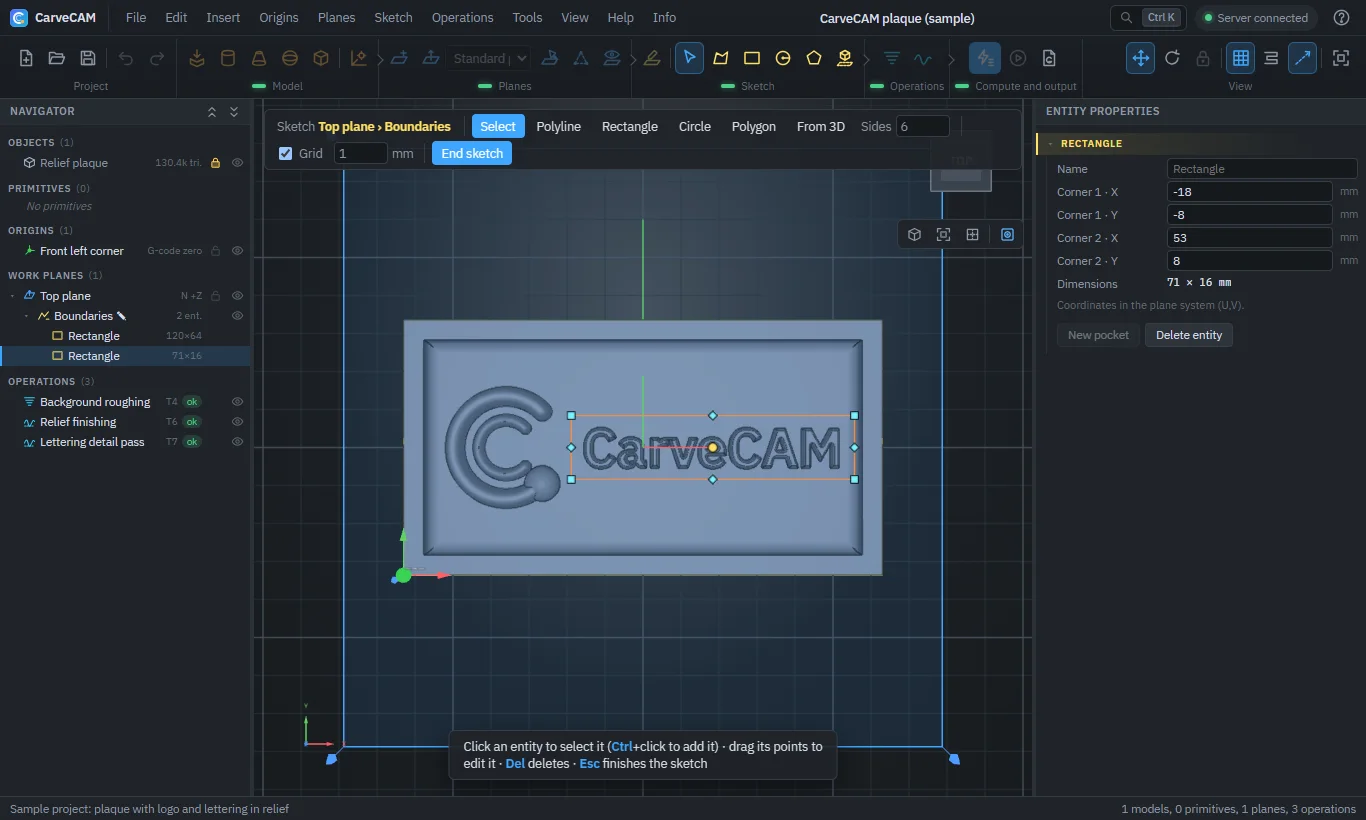
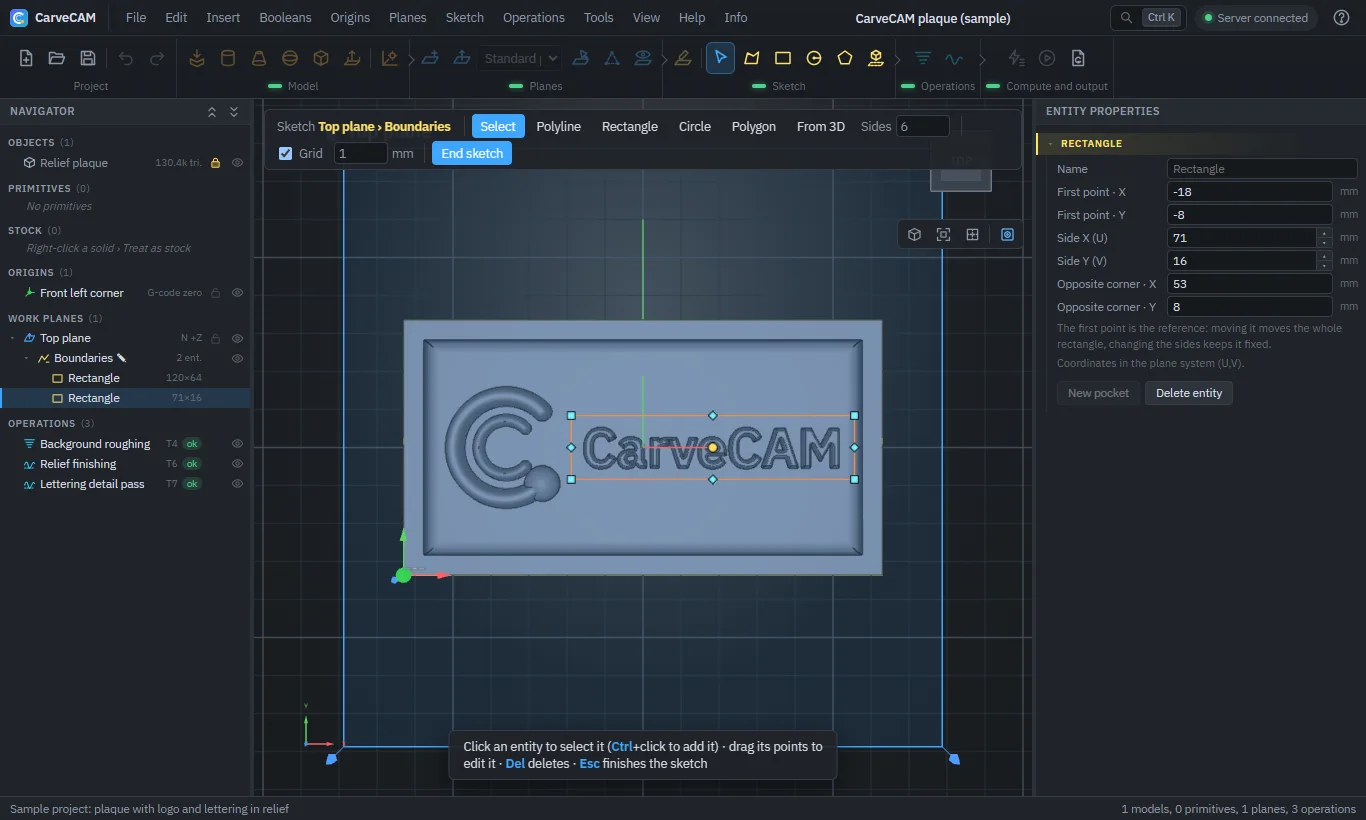
Guida, README, traduzioni e schermate per grezzo, solidi e nuove funzioni

diff --git a/src/CarveCAM.Server/wwwroot/js/guide-pages.js b/src/CarveCAM.Server/wwwroot/js/guide-pages.js
@@ -119,6 +119,12 @@ export function guidePages() {
           L('[[origin]] <b>Sposta origine</b>: trasla tutto il progetto perché l\'origine sia, per ogni asse, il minimo, il medio o il massimo dei solidi, più un offset.', '[[origin]] <b>Move origin</b>: shifts the whole project so that the origin is, for each axis, the minimum, middle or maximum of the solids, plus an offset.'),
           L('[[lock]] <b>Blocca</b> ({{Ctrl+L}}): un elemento bloccato non si sposta per errore.', '[[lock]] <b>Lock</b> ({{Ctrl+L}}): a locked item cannot be moved by mistake.'),
         ]),
+        h3(L('Solidi dagli sketch e operazioni booleane', 'Solids from sketches and boolean operations')),
+        ul([
+          L('[[extrude]] <b>Estrudi profilo</b>: seleziona uno sketch (o alcune sue entità) e scegli altezza e direzione: i contorni diventano un solido, estruso perpendicolarmente al piano (un contorno dentro un altro è un foro). Il solido è un artefatto: altezza e direzione si cambiano nelle proprietà.', '[[extrude]] <b>Extrude profile</b>: select a sketch (or some of its entities) and choose height and direction: the outlines become a solid, extruded perpendicular to the plane (an outline inside another is a hole). The solid is a primitive: height and direction are changed in its properties.'),
+          L('[[boolUnion]] <b>Booleane</b> (menu omonimo): con due o più solidi selezionati ({{Ctrl}}+clic) <b>Unione</b>, <b>Sottrazione</b> (il primo selezionato meno gli altri) o <b>Intersezione</b>. Il risultato è un nuovo oggetto; i solidi di partenza si tolgono o restano nascosti.', '[[boolUnion]] <b>Booleans</b> (menu of the same name): with two or more solids selected ({{Ctrl}}+click) <b>Union</b>, <b>Subtraction</b> (the first selected minus the others) or <b>Intersection</b>. The result is a new object; the original solids are removed or kept hidden.'),
+          L('Il <b>tasto destro</b> su un elemento (nella vista o nel navigatore) apre il suo menu.', 'A <b>right-click</b> on an item (in the view or in the navigator) opens its menu.'),
+        ]),
         act([show('[data-action="file.import"]', L('Mostrami Importa', 'Show me Import')), show('[data-group="model"]', L('Mostrami il gruppo Modello', 'Show me the Model group'))]),
       ],
     },
@@ -167,6 +173,7 @@ export function guidePages() {
         ul([
           L('<b>Aggancio</b> alla griglia (passo nella barra dello sketch) e ai punti delle entità esistenti. Finito il disegno di un\'entità si torna allo strumento Seleziona, con l\'entità selezionata.', '<b>Snapping</b> to the grid (step in the sketch bar) and to the points of existing entities. When an entity is finished the Select tool comes back, with the entity selected.'),
           L('Con <b>Seleziona</b> l\'entità mostra vertici, punti medi, centro e quadranti: trascinandoli si modifica (trascinare il punto medio di un lato aggiunge un vertice). {{Ctrl+Z}} annulla.', 'With <b>Select</b> the entity shows vertices, midpoints, centre and quadrants: drag them to edit it (dragging a side midpoint adds a vertex). {{Ctrl+Z}} undoes.'),
+          L('Nelle proprietà il <b>rettangolo</b> ha il primo punto cliccato come riferimento e la lunghezza dei due lati: cambiando i lati il primo punto resta fermo. Il <b>poligono</b> ha anche la lunghezza del lato.', 'In the properties the <b>rectangle</b> has the first clicked point as reference and the length of its two sides: changing the sides keeps the first point fixed. The <b>polygon</b> also has the side length.'),
         ]),
         art('island'),
         p(L('Un contorno dentro un altro diventa un\'<b>isola</b> che non viene lavorata. Per lavorare solo alcune entità selezionale con {{Ctrl}}+clic prima di creare la lavorazione: il progetto di esempio usa così il rettangolo della scritta.',
@@ -198,12 +205,38 @@ export function guidePages() {
           L('<b>Passo laterale</b>: distanza tra passate affiancate, in % del diametro (con limiti in mm). <b>Passo verticale</b>: altezza di ogni terrazza, in % dell\'altezza del tagliente.', '<b>Stepover</b>: distance between side-by-side passes, as a % of the diameter (with limits in mm). <b>Stepdown</b>: height of each terrace, as a % of the flute length.'),
           L('<b>Profondità massima</b> dal piano; <b>sovrametallo</b>: materiale lasciato sul modello per la finitura.', '<b>Maximum depth</b> from the plane; <b>stock allowance</b>: material left on the model for finishing.'),
           L('<b>Quota di sicurezza</b> per i movimenti rapidi e <b>tolleranza</b> del calcolo.', '<b>Safe height</b> for rapid moves and computing <b>tolerance</b>.'),
+          L('Se la fresa scenderebbe sotto il <b>piano della griglia</b> (Z 0, dove appoggia il pezzo) il calcolo chiede conferma: <b>Scendi sotto il piano</b> o <b>Limita al piano</b>. La scelta resta nella proprietà <i>Sotto la griglia</i>.', 'If the cutter would go below the <b>grid plane</b> (Z 0, where the part rests) the computation asks for confirmation: <b>Go below the plane</b> or <b>Limit to the plane</b>. The choice is kept in the <i>Below the grid</i> property.'),
         ]),
         art('entries'),
         art('obstacles'),
         p(L('Ogni lavorazione considera come <b>ostacoli</b> gli oggetti e gli artefatti spuntati nel gruppo <i>Ostacoli</i> delle proprietà (passando sul nome l\'ostacolo si illumina nella vista). Gli elementi aggiunti dopo non sono ostacoli finché non li spunti.',
           'Each operation treats as <b>obstacles</b> the objects and primitives checked in the <i>Obstacles</i> group of the properties (hovering a name highlights it in the view). Items added later are not obstacles until you check them.')),
+        tip(L('Con un <b>grezzo</b> le lavorazioni passano solo dove c\'è materiale e ognuna parte da quello lasciato dalla precedente: vedi il capitolo successivo.', 'With a <b>stock</b> the operations pass only where there is material and each starts from what the previous one left: see the next chapter.')),
         tip(L('<b>Salva come setup…</b> (nelle proprietà) conserva i parametri per riusarli. Per cambiare l\'ordine delle lavorazioni trascinale nel navigatore o usa [[reorder]] <b>Riordina lavorazioni</b>.', '<b>Save as setup…</b> (in the properties) keeps the parameters for reuse. To change the order of the operations drag them in the navigator or use [[reorder]] <b>Reorder operations</b>.')),
+      ],
+    },
+    {
+      id: 'stock', icon: 'box', title: L('Il grezzo', 'The stock'), nav: L('Grezzo', 'Stock'),
+      blocks: [
+        p(L('Il <b>grezzo</b> è il blocco di materiale da cui si ricava il pezzo. Senza grezzo le lavorazioni partono dal piano e lavorano tutta l\'area del contorno; con il grezzo sanno dov\'è il materiale.', 'The <b>stock</b> is the block of material the part is cut from. Without stock the operations start from the plane and machine the whole outline; with stock they know where the material is.')),
+        steps([
+          { icon: 'box', html: L('Crea il solido del grezzo: un <b>parallelepipedo</b>, un modello importato o un <b>profilo estruso</b> [[extrude]] dal contorno del pezzo.', 'Create the stock solid: a <b>box</b>, an imported model or an <b>extruded profile</b> [[extrude]] from the outline of the part.') },
+          { icon: 'select', html: L('<b>Tasto destro</b> sul solido › <b>Considera come grezzo</b> (o la casella <i>Grezzo</i> nelle proprietà): passa nell\'elenco <b>Grezzo</b> del navigatore e diventa semitrasparente.', '<b>Right-click</b> the solid › <b>Treat as stock</b> (or the <i>Stock</i> box in the properties): it moves to the <b>Stock</b> list of the navigator and becomes semi-transparent.') },
+          { icon: 'computeAll', html: L('<b>Ricalcola tutto</b>: le lavorazioni si calcolano nell\'ordine del navigatore, ognuna dal grezzo lasciato dalla precedente.', '<b>Recompute all</b>: operations are computed in the navigator order, each from the stock left by the previous one.') },
+        ]),
+        shot('stock', [
+          S(1, L('L\'elenco <b>Grezzo</b> del navigatore.', 'The <b>Stock</b> list of the navigator.')),
+          S(2, L('Il grezzo che si erode durante la simulazione: dove la fresa è passata il materiale è sceso.', 'The stock being eroded during the simulation: where the cutter has passed the material has gone down.')),
+          S(3, L('La simulazione di tutte le lavorazioni, ognuna sul grezzo lasciato dalla precedente.', 'The simulation of all the operations, each on the stock left by the previous one.')),
+        ], L('Il progetto di esempio con un blocco grezzo', 'The sample project with a stock block')),
+        ul([
+          L('Il grezzo è il <b>materiale da togliere</b>, non un ostacolo: gli ostacoli restano i modelli e gli artefatti spuntati nella lavorazione.', 'The stock is the <b>material to remove</b>, not an obstacle: obstacles are still the models and primitives checked in the operation.'),
+          L('La svuotatura parte dalla <b>sommità del grezzo</b> (anche sopra il piano, così la fresa non lo urta) e passa <b>solo dove c\'è materiale</b>: niente passate in aria. La profondità massima resta misurata dal piano.', 'Pocketing starts from the <b>top of the stock</b> (also above the plane, so the cutter does not hit it) and passes <b>only where there is material</b>: no air cuts. The maximum depth is still measured from the plane.'),
+          L('La finitura salta i tratti dove la fresa non tocca materiale; le lavorazioni successive lavorano solo il <b>materiale rimasto</b> (ripresa).', 'Finishing skips the stretches where the cutter touches no material; later operations machine only the <b>remaining material</b> (rest machining).'),
+          L('Funziona anche con piani diversi (lavorazioni 3+2): il grezzo lasciato da una lavorazione si ricampiona nel sistema del piano della successiva.', 'It also works with different planes (3+2 machining): the stock left by one operation is resampled in the plane system of the next.'),
+          L('In <b>simulazione</b> il grezzo si erode mentre la fresa passa.', 'In the <b>simulation</b> the stock is eroded as the cutter passes.'),
+        ]),
+        tip(L('Con il grezzo una lavorazione dipende dalle precedenti: cambiando la prima, le successive tornano <b>da ricalcolare</b>; {{F9}} su una lavorazione calcola prima quelle precedenti non aggiornate.', 'With stock an operation depends on the previous ones: changing the first one makes the following ones <b>to recompute</b>; {{F9}} on an operation first computes the previous ones that are not up to date.')),
       ],
     },
     {
@@ -252,6 +285,7 @@ export function guidePages() {
           'The <b>work zero</b> is the point of the part where program coordinates start: on the machine you zero on the same point. Usually a corner or the centre of the top face of the stock.')),
         ul([
           L('[[refPoint]] <b>Origini › Nuova origine da un punto</b> (clic nella vista, con aggancio ai vertici) o <b>da coordinate</b> (con i punti notevoli dell\'ingombro). I punti si chiamano <i>Origine 1, 2…</i> e si rinominano nelle proprietà.', '[[refPoint]] <b>Origins › New origin from a point</b> (click in the view, snapping to vertices) or <b>from coordinates</b> (with the key points of the bounds). The points are called <i>Origin 1, 2…</i> and can be renamed in the properties.'),
+          L('Nelle proprietà di un\'origine <b>Sposta il punto…</b> la porta su un altro punto con un clic nella vista (con aggancio ai vertici).', 'In the properties of an origin <b>Move the point…</b> moves it to another point with a click in the view (snapping to vertices).'),
           L('[[gcode]] <b>Esporta G-code</b>: scegli il controllo, lo zero pezzo e le lavorazioni; il programma si può copiare o scaricare.', '[[gcode]] <b>Export G-code</b>: choose the controller, the work zero and the operations; the program can be copied or downloaded.'),
         ]),
         shot('export', [

diff --git a/src/CarveCAM.Server/wwwroot/js/i18n-en.js b/src/CarveCAM.Server/wwwroot/js/i18n-en.js
@@ -1214,7 +1214,6 @@ export const EN = {
   "Modifiche non salvate": "Unsaved changes",
   "Nessun progetto recente: i progetti aperti o salvati compariranno qui.": "No recent projects: the projects you open or save will appear here.",
   "Schermata iniziale di CarveCAM": "CarveCAM start screen",
-  "CAM per mini CNC: dal modello 3D al G-code": "CAM for mini CNCs: from 3D model to G-code",
   "Mostra all'avvio": "Show at startup",
   "Informazioni…": "About…",
   "Vai al progetto": "Go to the project",
@@ -1237,8 +1236,6 @@ export const EN = {
   "Finitura del rilievo": "Relief finishing",
   "Ripresa della scritta": "Lettering detail pass",
   "Spazio": "Space",
-  "Prova subito": "Try it now",
-  "Una targa con logo e scritta in rilievo: sgrossatura, finitura e ripresa con fresa conica, calcolate e pronte da simulare.": "A plaque with logo and lettering in relief: roughing, finishing and a detail pass with a tapered cutter, computed and ready to simulate.",
   "Apri l'esempio": "Open the sample",
   "Termina prima lo sketch": "Finish the sketch first",
   "Concludi o annulla (Esc) prima la creazione del piano": "Finish or cancel (Esc) the plane creation first",
@@ -1249,4 +1246,88 @@ export const EN = {
   "Clic sul primo angolo, poi sull'angolo opposto": "Click the first corner, then the opposite corner",
   "Clic sul centro, poi sul raggio": "Click the center, then the radius",
   "Clic sul centro, poi su un vertice": "Click the center, then a vertex",
+  // grezzo, profilo estruso, booleane, rettangolo e poligono, origini
+  "Seleziona prima uno sketch (o alcune sue entità) da estrudere": "Select a sketch (or some of its entities) to extrude first",
+  "Seleziona almeno due solidi (oggetti o artefatti) con Ctrl+clic": "Select at least two solids (objects or primitives) with Ctrl+click",
+  "Estrudi profilo…": "Extrude profile…",
+  "Estrudi profilo": "Extrude profile",
+  "Estrudi": "Extrude",
+  "Estrude in linea retta, perpendicolare al piano, i contorni dello sketch o delle entità selezionate: il solido diventa un artefatto": "Extrudes the outlines of the selected sketch or entities straight, perpendicular to the plane: the solid becomes a primitive",
+  "Booleane": "Booleans",
+  "Operazioni tra i solidi selezionati": "Operations between the selected solids",
+  "Unione…": "Union…",
+  "Sottrazione…": "Subtraction…",
+  "Intersezione…": "Intersection…",
+  "Un solo solido con il volume di tutti i solidi selezionati": "A single solid with the volume of all the selected solids",
+  "Il primo solido selezionato meno gli altri": "The first selected solid minus the others",
+  "Solo il volume comune a tutti i solidi selezionati": "Only the volume common to all the selected solids",
+  "Grezzo: {names}. Le lavorazioni lo usano come materiale da togliere, aggiornandolo dall'una alla successiva": "Stock: {names}. Operations use it as the material to remove, updating it from one to the next",
+  "{names}: non più grezzo": "{names}: no longer stock",
+  "Clic sul nuovo punto di \"{name}\" (si aggancia ai vertici di solidi, sketch e piani vicini) · <b>Esc</b> annulla": "Click the new point of \"{name}\" (snaps to nearby vertices of solids, sketches and planes) · <b>Esc</b> cancels",
+  "Estrusione": "Extrusion",
+  "{n} contorni di \"{sketch}\" ({plane}), estrusi perpendicolarmente al piano.": "{n} outlines of \"{sketch}\" ({plane}), extruded perpendicular to the plane.",
+  "Direzione": "Direction",
+  "Grezzo": "Stock",
+  "Considera il solido come grezzo": "Treat the solid as stock",
+  "Un contorno dentro un altro diventa un foro. Il solido è un artefatto: altezza e direzione si cambiano poi nelle sue proprietà.": "An outline inside another becomes a hole. The solid is a primitive: height and direction can be changed later in its properties.",
+  "Altezza non valida": "Invalid height",
+  "Profilo estruso: {n} contorni, altezza {h} mm": "Extruded profile: {n} outlines, height {h} mm",
+  "\"{first}\" meno {others}": "\"{first}\" minus {others}",
+  "Conserva i solidi di partenza (nascosti)": "Keep the original solids (hidden)",
+  "Il risultato è un nuovo oggetto. I solidi devono essere chiusi; i modelli molto grandi richiedono qualche secondo.": "The result is a new object. The solids must be closed; very large models take a few seconds.",
+  "Operazione booleana: {op}…": "Boolean operation: {op}…",
+  "\"{name}\" non è ancora pronto nella vista": "\"{name}\" is not ready in the view yet",
+  "Il risultato è vuoto: i solidi non hanno volume in comune": "The result is empty: the solids have no volume in common",
+  "Invio al server del risultato…": "Sending the result to the server…",
+  "Operazione booleana non riuscita: {msg}": "Boolean operation failed: {msg}",
+  "operazione booleana": "boolean operation",
+  "{op}: {tri} triangoli": "{op}: {tri} triangles",
+  "\"{name}\" spostato in {p}": "\"{name}\" moved to {p}",
+  "\"{name}\": {pts} punti, {len} m di lavoro, {ms} ms": "\"{name}\": {pts} points, {len} m of cutting, {ms} ms",
+  "Non considerare come grezzo": "Do not treat as stock",
+  "Considera come grezzo": "Treat as stock",
+  "Grezzo: è il materiale da lavorare, non un ostacolo. Le lavorazioni partono dalla sua sommità e passano solo dove c'è materiale; dopo ogni lavorazione il grezzo si aggiorna per quella successiva.": "Stock: the material to machine, not an obstacle. Operations start from its top and pass only where there is material; after each operation the stock is updated for the next one.",
+  "{n} contorni": "{n} outlines",
+  "materiale da lavorare": "material to machine",
+  "Profilo": "Profile",
+  "Sposta il punto…": "Move the point…",
+  "Clic nella vista sul nuovo punto (si aggancia ai vertici)": "Click the new point in the view (snaps to vertices)",
+  "Primo punto · X": "First point · X",
+  "Primo punto · Y": "First point · Y",
+  "Lato X (U)": "Side X (U)",
+  "Lato Y (V)": "Side Y (V)",
+  "Angolo opposto · X": "Opposite corner · X",
+  "Angolo opposto · Y": "Opposite corner · Y",
+  "Il primo punto è il riferimento: spostandolo si sposta tutto il rettangolo, cambiando i lati resta fermo.": "The first point is the reference: moving it moves the whole rectangle, changing the sides keeps it fixed.",
+  "Lunghezza lato": "Side length",
+  "Tasto destro su un solido › Considera come grezzo": "Right-click a solid › Treat as stock",
+  "Profilo estruso": "Extruded profile",
+  "Profilo nel piano XY locale (quello dello sketch di partenza), estruso lungo Z locale (la normale del piano).": "Profile in the local XY plane (that of the source sketch), extruded along local Z (the plane normal).",
+  "Nel materiale (opposta alla normale)": "Into the material (opposite to the normal)",
+  "Verso l'utensile (lungo la normale)": "Towards the tool (along the normal)",
+  "Simmetrica": "Symmetric",
+  "Tasto destro (clic)": "Right button (click)",
+  "Menu dell'elemento sotto il cursore (vista e navigatore)": "Menu of the item under the cursor (view and navigator)",
+  // piano della griglia
+  "Sotto il piano della griglia": "Below the grid plane",
+  "La lavorazione \"{name}\" porta la fresa fino a {d} mm sotto il piano base della griglia (Z 0), dove di solito appoggia il pezzo.": "The operation \"{name}\" takes the cutter down to {d} mm below the base plane of the grid (Z 0), where the part usually rests.",
+  "Consentire di scendere sotto il piano?": "Allow going below the plane?",
+  "\"Limita al piano\" ricalcola la lavorazione fermando la fresa sul piano della griglia. La scelta resta nelle proprietà della lavorazione (Sotto la griglia).": "\"Limit to the plane\" recomputes the operation stopping the cutter on the grid plane. The choice is kept in the operation properties (Below the grid).",
+  "Scendi sotto il piano": "Go below the plane",
+  "Limita al piano": "Limit to the plane",
+  "Sotto la griglia": "Below the grid",
+  "Chiedi conferma": "Ask for confirmation",
+  "Consenti": "Allow",
+  "Cosa fare se la fresa scende sotto il piano base della griglia (Z 0), dove di solito appoggia il pezzo. Chiedi conferma: al calcolo si sceglie se consentirlo o limitare la lavorazione al piano. Limita al piano: la fresa non scende sotto (le terrazze si fermano sul piano, la finitura ci passa sopra).": "What to do if the cutter goes below the base plane of the grid (Z 0), where the part usually rests. Ask for confirmation: when computing you choose whether to allow it or to limit the operation to the plane. Limit to the plane: the cutter does not go below (terraces stop on the plane, finishing passes over it).",
+  // schermata iniziale
+  "CAM per mini CNC": "CAM for mini CNCs",
+  "Fresatura a 3 assi e 3+2 · GRBL e Fanuc/ISO": "3-axis and 3+2 milling · GRBL and Fanuc/ISO",
+  "Dal modello 3D": "From 3D model",
+  "al G-code.": "to G-code.",
+  "Svuotature a terrazze, finiture in proiezione, piani inclinati e grezzo che si consuma lavorazione dopo lavorazione: prepari, simuli ed esporti il programma per la tua fresatrice.": "Terrace pocketing, projected finishing, tilted planes and stock that is consumed operation after operation: prepare, simulate and export the program for your milling machine.",
+  "Targa con logo e scritta in rilievo: tre lavorazioni pronte da simulare.": "Plaque with logo and lettering in relief: three operations ready to simulate.",
+  "Simulazione": "Simulation",
+  "Svuotatura concentrica · fresa Ø{d} mm": "Concentric pocketing · Ø{d} mm cutter",
+  "passata {k}/{n}": "pass {k}/{n}",
+  "contorno": "contour",
 };

diff --git a/README.md b/README.md
@@ -82,11 +82,14 @@ samples/blocco-L.stp                        STEP di prova (blocco a L con gradin
 
 - **Schermata iniziale:** dopo il caricamento, al posto dell'area di lavoro vuota: nuovo progetto, apri, importa,
   progetto di esempio, il progetto da riprendere (con l'anteprima e le modifiche non salvate), i progetti recenti
-  con le miniature, la guida e il flusso di lavoro. Si riapre da *File › Schermata iniziale* o con un clic sul
-  logo; *Mostra all'avvio* (anche in *Opzioni › Avvio*) decide se compare all'avvio. Mentre è aperta la vista 3D
-  non viene disegnata.
-- **Barra del titolo:** menu a tendina con icone (File, Modifica, Inserisci, Origini, Piani, Sketch, Lavorazioni,
-  Strumenti, Vista, Aiuto, Info; navigabili con le frecce), nome del progetto modificabile (Invio o uscita dal
+  con le miniature, la guida e il flusso di lavoro, le cui fasi si illuminano in sequenza. Accanto, una vetrina
+  animata in prospettiva (`home-anim.js`, CSS 3D e SVG, senza librerie): una fresa scava la "C" del logo in una
+  lastra con passate concentriche e una passata di contorno, con la riga di G-code e l'avanzamento; un clic apre
+  il progetto di esempio. Si riapre da *File › Schermata iniziale* o con un clic sul logo; *Mostra all'avvio*
+  (anche in *Opzioni › Avvio*) decide se compare all'avvio. Mentre è aperta la vista 3D non viene disegnata; le
+  animazioni si fermano quando si chiude e, con *riduci movimento* del sistema, restano ferme.
+- **Barra del titolo:** menu a tendina con icone (File, Modifica, Inserisci, Booleane, Origini, Piani, Sketch,
+  Lavorazioni, Strumenti, Vista, Aiuto, Info; navigabili con le frecce), nome del progetto modificabile (Invio o uscita dal
   campo chiedono se salvare) con indicatore delle modifiche non salvate, ricerca comandi (**Ctrl+K**), stato del
   server. Il menu File contiene il riquadro degli **ultimi 5 progetti** aperti o salvati; *Info › Informazioni
   su CarveCAM* mostra versione, descrizione, **crediti di sviluppo** (William Veronesi e Gabriel S. Sartori) e
@@ -99,8 +102,9 @@ samples/blocco-L.stp                        STEP di prova (blocco a L con gradin
 - **Caricamento:** all'avvio e durante calcoli, aperture e importazioni compare il logo animato (la fresa scava
   la passata interna e poi la "C"), con la fase in corso e, dopo 2 s, il tempo trascorso; con il movimento
   ridotto attivo nel sistema il logo resta fermo e pulsa.
-- **Navigatore** (a sinistra): oggetti, artefatti, origini, piani › sketch › entità, lavorazioni; occhio per
-  mostrare/nascondere, lucchetto per bloccare/sbloccare. **Ctrl+clic** aggiunge o toglie dalla selezione.
+- **Navigatore** (a sinistra): oggetti, artefatti, **grezzo**, origini, piani › sketch › entità, lavorazioni;
+  occhio per mostrare/nascondere, lucchetto per bloccare/sbloccare. **Ctrl+clic** aggiunge o toglie dalla
+  selezione; il **tasto destro** su un elemento, nel navigatore o nella vista, apre il suo menu.
   Le lavorazioni si **trascinano** per cambiarne la sequenza (con conferma della nuova sequenza), oppure
   *Lavorazioni › Riordina lavorazioni*.
 - **Proprietà** (a destra): gruppi comprimibili e colorati; **clic sul nome di un parametro** per la sua
@@ -110,7 +114,8 @@ samples/blocco-L.stp                        STEP di prova (blocco a L con gradin
 - **Vista 3D:** Z in alto; tasto sinistro ruota, centrale/destro trasla, rotella zoom; Ctrl+clic per la
   selezione multipla. Il piano attivo (quello dell'elemento selezionato o dello sketch in modifica) è
   riempito con bordo continuo, gli altri hanno solo il bordo tratteggiato e si selezionano con un clic in
-  qualunque punto del loro riquadro; la normale è indicata da quattro piccole frecce agli angoli.
+  qualunque punto del loro riquadro; la normale è indicata da quattro piccole frecce agli angoli e il nome del
+  piano è scritto accanto a un angolo del riquadro.
 - **Manipolatore** (G sposta, R ruota): muove insieme oggetti, artefatti e piani selezionati. **Clic sul
   centro** del manipolatore: compaiono dei pallini verdi sui vertici della selezione, il clic su uno di essi
   lo sceglie come nuovo punto di riferimento.
@@ -129,7 +134,8 @@ samples/blocco-L.stp                        STEP di prova (blocco a L con gradin
   massimo dell'ingombro di tutti i solidi caricati** (anche nascosti), oppure l'origine attuale, **più un
   offset** in mm; oppure un punto cliccato nella vista. Tutto il progetto viene traslato.
 - **Origini** (menu omonimo): punti di riferimento nella scena, chiamati *Origine 1, 2…* e rinominabili, creati
-  con un clic nella vista (aggancio ai vertici) o con coordinate. Nell'**esportazione del G-code** si sceglie
+  con un clic nella vista (aggancio ai vertici) o con coordinate; *Sposta il punto…* (proprietà dell'origine)
+  lo porta su un altro punto con un clic nella vista. Nell'**esportazione del G-code** si sceglie
   quale usare come **zero pezzo**: le coordinate del programma sono relative a quel punto (anche con G68.2 e
   sui piazzamenti GRBL, con le istruzioni di azzeramento nei commenti).
 - Nelle scelte di punti nella vista (piano da 3 punti, origini) il cursore **si aggancia ai vertici visibili**
@@ -165,7 +171,9 @@ nella vista, diventi l'origine.
    Entrando nello sketch la vista si mette normale al piano (con la normale attuale) e si naviga come fuori
    dallo sketch. Con lo strumento **Seleziona**, l'entità selezionata mostra i **punti di riferimento**
    (vertici, punti medi dei lati, centro, quadranti): trascinandoli si modifica la geometria (il trascinamento
-   del punto medio di un lato di polilinea inserisce un vertice), con aggancio e Ctrl+Z.
+   del punto medio di un lato di polilinea inserisce un vertice), con aggancio e Ctrl+Z. Nelle proprietà il
+   **rettangolo** ha il primo punto cliccato come riferimento (spostandolo si sposta tutto) e la **lunghezza dei
+   due lati** (cambiandola il primo punto resta fermo); il **poligono** ha anche la **lunghezza del lato**.
 4. Seleziona lo sketch (oppure, con Ctrl+clic, una o più entità dello stesso sketch: solo quelle delimitano
    la zona lavorata) e scegli **Svuotatura** o **Finitura**: si sceglie l'**utensile dal magazzino** e poi il
    **setup** di lavorazione.
@@ -195,6 +203,41 @@ nella vista, diventi l'origine.
   la sua creazione non sono ostacoli finché non vengono spuntati nel gruppo *Ostacoli* delle proprietà.
 
 Gli archivi sono sul server, in `App_Data/library/tools.json` e `setups.json`.
+
+## Solidi: profilo estruso e booleane
+
+- **Estrudi profilo** (gruppo *Modello* e menu *Inserisci*): con uno sketch (o alcune sue entità) selezionato,
+  estrude i contorni in linea retta perpendicolarmente al piano, per l'altezza scelta, nel materiale (opposta
+  alla normale), verso l'utensile o in modo simmetrico. Un contorno dentro un altro è un foro. Il solido è un
+  artefatto (*Profilo estruso*) con il profilo copiato nel suo sistema locale: altezza e direzione si cambiano
+  nelle proprietà, la posizione con il manipolatore. Il server riceve i triangoli preparati dal client.
+- **Booleane** (menu omonimo): **Unione**, **Sottrazione** (il primo solido selezionato meno gli altri) e
+  **Intersezione** tra due o più oggetti e artefatti selezionati, calcolate nel browser con
+  [three-bvh-csg](https://github.com/gkjohnson/three-bvh-csg). Il risultato è un nuovo oggetto (mesh caricata sul
+  server); i solidi di partenza si tolgono o restano nascosti e le lavorazioni che li avevano come ostacolo usano
+  il risultato. I solidi devono essere chiusi.
+
+## Grezzo
+
+Un solido (oggetto o artefatto, anche un profilo estruso) diventa **grezzo** con il tasto destro › *Considera
+come grezzo* o con la casella *Grezzo* nelle proprietà: passa nell'elenco *Grezzo* del navigatore, è disegnato
+semitrasparente e non è più un ostacolo ma il **materiale da togliere**.
+
+- Per ogni lavorazione il grezzo diventa una **mappa di quote** nel sistema del suo piano (una fascia di
+  materiale per colonna, circa 160 000 celle) rasterizzando i triangoli dei solidi.
+- **Svuotatura:** le terrazze partono dalla **sommità del grezzo** (anche sopra il piano, per non urtarlo) e a ogni
+  quota coprono solo le posizioni della fresa che toccano materiale (materiale allargato del raggio): niente
+  passate in aria; la profondità massima resta misurata dal piano. Elica e rampa possono passare dove il
+  materiale non c'è, purché la zona sia libera dagli ostacoli. La quota di sicurezza supera anche il grezzo.
+- **Finitura:** i tratti più lunghi di 5 mm (o 4 raggi) in cui la fresa non tocca materiale si saltano, passando
+  appena sopra pezzo e grezzo invece che alla quota di sicurezza.
+- **In catena:** dopo ogni lavorazione il server toglie dal grezzo il volume spazzato dalla fresa (profilo del
+  tagliente, anche conico) e la lavorazione successiva parte da quello: le riprese lavorano solo il materiale
+  rimasto. Le lavorazioni si calcolano nell'ordine del navigatore; con un piano parallelo la mappa si trasla, con
+  un'altra normale (3+2) si ricampiona dalla sua superficie. Se il server non ha più il grezzo intermedio (es.
+  dopo un riavvio) il client ricalcola la catena.
+- **Simulazione:** il grezzo di ogni lavorazione (`GET /api/cam/toolpath/{id}/stock`) si mostra come superficie
+  che si abbassa dove passa la fresa: si vede l'erosione del materiale.
 
 ## Simulazione
 
@@ -238,6 +281,13 @@ altrimenti disimpegno alla quota di sicurezza.
 Ingresso nel materiale: **elica** (passa per il punto d'ingresso ed è contenuta nella zona lavorabile),
 **rampa** lungo il primo tratto del percorso (o attorno al contorno se corto) oppure affondo verticale;
 angolo di discesa e avanzamento di rampa configurabili, con ripiego automatico se manca spazio.
+
+**Piano della griglia.** Se la fresa scende sotto il piano base della griglia (Z 0 mondo, dove di solito
+appoggia il pezzo) il client chiede se consentirlo: *Scendi sotto il piano* tiene il percorso, *Limita al
+piano* lo ricalcola con il piano come limite. La scelta resta nella lavorazione (*Sotto la griglia*: chiedi
+conferma, consenti, limita al piano). Il server riporta la quota più bassa raggiunta dal tagliente
+(`stats.minZ`, anche con l'asse inclinato: conta il bordo della fresa) e, con `floor`, aggiunge sotto il pezzo
+un piano che la fresa tocca senza sovrametallo: le terrazze si fermano sul piano, la finitura ci passa sopra.
 
 **Utensili:** fresa cilindrica, **torica** (raggio di raccordo r: fondo piatto di raggio R-r più toro),
 sferica e **conica** (punta piatta, a V o sferica raccordata al cono). Il contatto torico con gli spigoli è
@@ -314,7 +364,8 @@ Verificare sempre il programma con il simulatore della propria macchina prima de
 
 ## Limiti noti
 
-- Il grezzo non è modellato: la svuotatura assume che il materiale parta dal piano di lavoro.
+- Senza grezzo la svuotatura assume che il materiale parta dal piano di lavoro. Il grezzo è una mappa di quote
+  per piano (una fascia per colonna): i sottosquadri rispetto all'asse utensile non sono rappresentati.
 - Gli ingressi a rampa/elica riguardano la svuotatura; la finitura si avvicina alla superficie con affondo.
 - I messaggi generati dal server (errori e avvisi del calcolo) restano in italiano anche con l'interfaccia in inglese.
 - Il progetto (.ccam) contiene progetto e mesh; i percorsi calcolati si rigenerano all'apertura (Ricalcola tutto).
